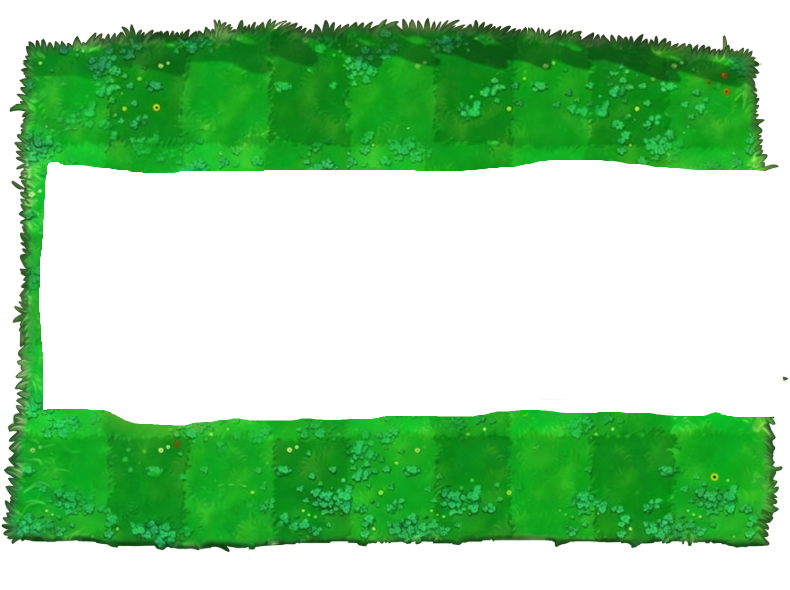
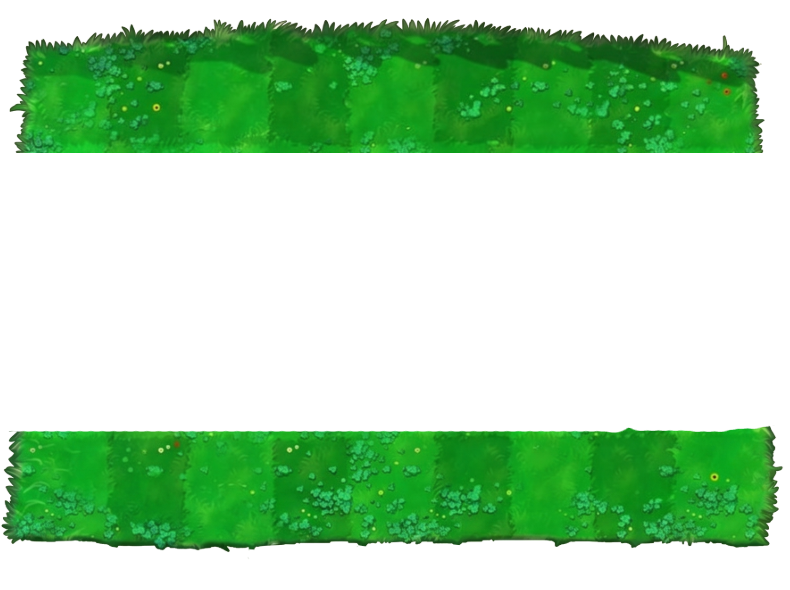
Edit full grass BG and change shroom bullet shadow radius

Changed region(s): [[0.0, 0.2441, 1.0, 0.7322]]

diff --git a/src/Bullet.cpp b/src/Bullet.cpp
@@ -11,7 +11,10 @@ Bullet::Bullet(BulletType typeValue, sf::Vector2f position, int rowValue)
                  : (typeValue == SNOWPEA
                         ? getTexture("assets/bullets/peaice.png")
                         : getTexture("assets/bullets/shroom.png"))) {
-  shadow.setRadius(8);
+  if (typeValue == SHROOM)
+    shadow.setRadius(4);
+  else
+    shadow.setRadius(8);
   shadow.setFillColor(sf::Color(0, 0, 0, 100));
   shadow.setScale({1.5f, 0.5f});
   shadow.setOrigin(shadow.getLocalBounds().getCenter());
